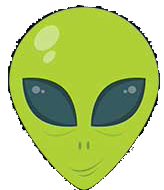
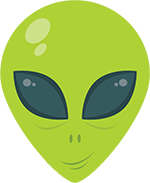
Fix alien

diff --git a/src/components/alien/alien.module.css b/src/components/alien/alien.module.css
@@ -4,8 +4,8 @@
     left: 50px;
     bottom: -130px;
     z-index: 9;
-    height: 516px;
-    width: 420px;
+    height: 514px;
+    width: 334px;
 }
 
 .container__opened {
@@ -16,8 +16,8 @@
     position: absolute;
     bottom: 0;
     left: 0;
-    width: 164px;
-    height: 190px;
+    width: 150px;
+    height: 183px;
 }
 
 .dialog {
@@ -26,8 +26,8 @@
     opacity: 0;
     top: 0;
     right: 0;
-    width: 325px;
-    height: 325px;
+    width: 317px;
+    height: 309px;
     background-repeat: no-repeat;
     background-size: contain;
 }
@@ -39,9 +39,13 @@
 .text {
     background: transparent;
     position: absolute;
-    top: 40px;
-    left: 108px;
-    width: 169px;
-    height: 108px;
+    top: 34px;
+    left: 57px;
+    width: 185px;
+    height: 169px;
     font-size: 25px;
+    display: flex;
+    justify-content: center;
+    align-items: center;
+    text-align: center;
 }
